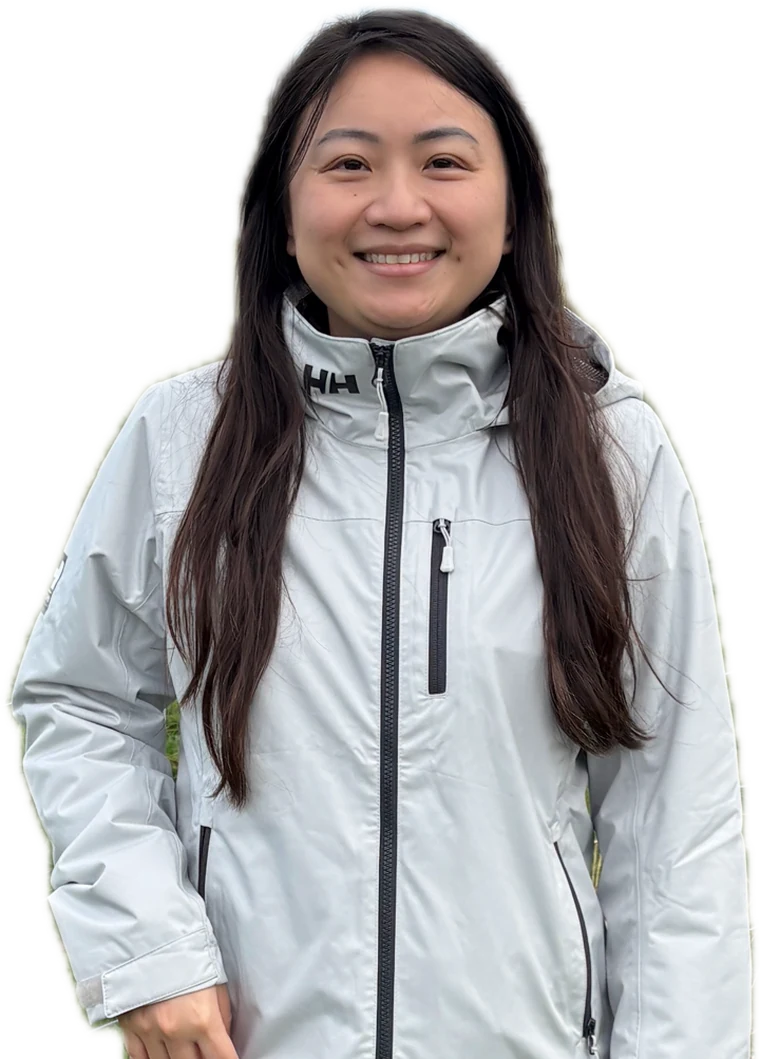
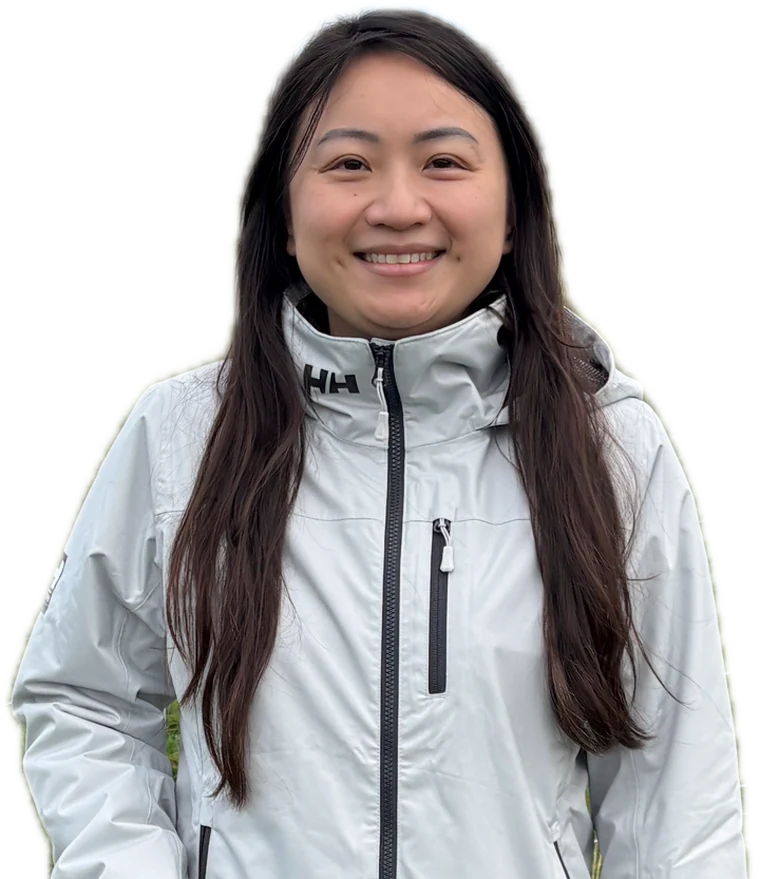
feat: new headline, open-to-work status, calmer hero portrait
- Headline: "I build the data platforms that power analytics and AI."
- Open to work + Austin, TX status under the hero buttons
- Portrait cropped at the waist; remove greeting bubble and sway,
  keep the rise-in with a subtle float
- Slightly smaller headline so the hero fits on a laptop screen

diff --git a/frontend/app/page.tsx b/frontend/app/page.tsx
@@ -1,7 +1,7 @@
 import type { Metadata } from 'next'
 import Link from 'next/link'
 import Image from 'next/image'
-import { Linkedin, Github, Mail, Newspaper, ArrowRight, FileText, MessageCircle } from 'lucide-react'
+import { Linkedin, Github, Mail, Newspaper, ArrowRight, FileText, MessageCircle, MapPin } from 'lucide-react'
 import { CASE_STUDIES } from '@/lib/caseStudies'
 
 const linkedinUrl = process.env.NEXT_PUBLIC_LINKEDIN_URL || 'https://www.linkedin.com/in/libinguo/'
@@ -64,8 +64,8 @@ export default function Home() {
       <section className="grid lg:grid-cols-[1.2fr,0.8fr] gap-10 lg:gap-16 items-end">
         <div className="space-y-8 animate-fade-up self-center lg:pb-20">
           <p className="eyebrow">Libin Guo · Senior Data Engineer</p>
-          <h1 className="font-display text-5xl sm:text-6xl md:text-7xl font-semibold text-cobalt tracking-tight leading-[1.05]">
-            Data infrastructure for unified lakehouse and AI training.
+          <h1 className="font-display text-5xl sm:text-6xl xl:text-[4rem] font-semibold text-cobalt tracking-tight leading-[1.05] [text-wrap:balance]">
+            I build the data platforms that power analytics and AI.
           </h1>
           <p className="text-lg md:text-xl text-cobalt/80 max-w-2xl leading-relaxed">
             I&apos;m a Senior Data Engineer with 9+ years building large-scale data pipelines and data
@@ -82,6 +82,19 @@ export default function Home() {
               <ArrowRight strokeWidth={1.5} size={18} />
             </Link>
           </div>
+          <p className="flex flex-wrap items-center gap-x-3 gap-y-1 text-sm text-cobalt/75">
+            <span className="inline-flex items-center gap-2 rounded-full bg-emerald-50 px-3 py-1 font-medium text-emerald-800">
+              <span className="relative flex h-2 w-2" aria-hidden="true">
+                <span className="absolute inline-flex h-full w-full rounded-full bg-emerald-500 opacity-60 motion-safe:animate-ping" />
+                <span className="relative inline-flex h-2 w-2 rounded-full bg-emerald-500" />
+              </span>
+              Open to work
+            </span>
+            <span className="inline-flex items-center gap-1">
+              <MapPin strokeWidth={1.5} size={16} aria-hidden="true" />
+              Austin, TX
+            </span>
+          </p>
           <div className="flex flex-wrap items-center gap-3">
             <span className="text-xs uppercase tracking-[0.16em] text-cobalt/55 mr-1">Follow</span>
             {SOCIALS.map(({ href, label, Icon }) => (
@@ -105,13 +118,10 @@ export default function Home() {
             src="/portrait-cutout.webp"
             alt="Libin Guo"
             width={760}
-            height={1059}
+            height={879}
             priority
             className="hero-portrait"
           />
-          <p className="hero-hello" aria-hidden="true">
-            Hi, I&apos;m Libin <span className="hero-wave">👋</span>
-          </p>
         </div>
       </section>
 

diff --git a/frontend/app/globals.css b/frontend/app/globals.css
@@ -351,7 +351,7 @@ body {
   opacity: 0;
   animation:
     hero-rise 1s cubic-bezier(0.22, 1, 0.36, 1) 0.25s forwards,
-    hero-float 6s ease-in-out 1.25s infinite;
+    hero-float 8s ease-in-out 1.25s infinite;
 }
 
 @keyframes hero-rise {
@@ -359,60 +359,18 @@ body {
   to { opacity: 1; transform: translate(-50%, 0); }
 }
 
+/* a barely-there float after the rise-in */
 @keyframes hero-float {
-  0%, 100% { transform: translate(-50%, 0) rotate(0deg); }
-  25% { transform: translate(-50%, -6px) rotate(-1.2deg); }
-  50% { transform: translate(-50%, -10px) rotate(0deg); }
-  75% { transform: translate(-50%, -6px) rotate(1.2deg); }
+  0%, 100% { transform: translate(-50%, 0); }
+  50% { transform: translate(-50%, -4px); }
 }
-
-/* Greeting bubble that pops in beside the portrait, with a waving hand */
-.hero-hello {
-  position: absolute;
-  left: 4%;
-  top: 12%;
-  z-index: 1;
-  padding: 0.55rem 1rem;
-  border-radius: 999px 999px 999px 0.35rem;
-  background: #FFFFFF;
-  color: #0048AC;
-  font-weight: 600;
-  font-size: 0.95rem;
-  white-space: nowrap;
-  box-shadow: 0 10px 24px rgba(2, 14, 28, 0.16);
-  opacity: 0;
-  transform-origin: bottom left;
-  animation: hero-pop 0.5s cubic-bezier(0.34, 1.56, 0.64, 1) 1.2s forwards;
-}
-
-.hero-wave {
-  display: inline-block;
-  transform-origin: 70% 80%;
-  animation: hero-wave 2.4s ease-in-out 1.7s infinite;
-}
-
-@keyframes hero-pop {
-  from { opacity: 0; transform: scale(0.6) translateY(8px); }
-  to { opacity: 1; transform: scale(1) translateY(0); }
-}
-
-@keyframes hero-wave {
-  0%, 60%, 100% { transform: rotate(0deg); }
-  10%, 30% { transform: rotate(16deg); }
-  20%, 40% { transform: rotate(-8deg); }
-  50% { transform: rotate(10deg); }
-}
-
-
 
 @media (prefers-reduced-motion: reduce) {
   .path-list::after {
     display: none;
   }
 
-  .hero-portrait,
-  .hero-hello,
-  .hero-wave {
+  .hero-portrait {
     animation: none;
     opacity: 1;
   }
